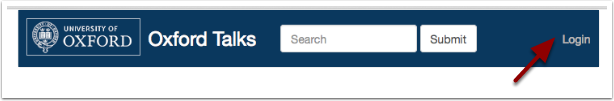
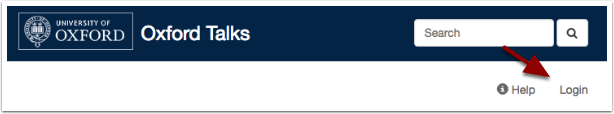
Adjusting login images and instructions, also documenting bug with IE

diff --git a/docs/source/user/general/log-in.rst b/docs/source/user/general/log-in.rst
@@ -1,3 +1,6 @@
+
+
+
 Logging in and out
 ==================
 
@@ -8,7 +11,7 @@ Log in
 
 .. image:: images/log-in/log-in.png
    :alt: Log in
-   :height: 101px
+   :height: 114px
    :width: 614px
    :align: center
 
@@ -18,21 +21,24 @@ Log in
 * Once you have signed in, clicking the **Continue to** button will take you back to Oxford Talks
 
 .. image:: images/log-in/d1a11eac-3994-43ab-a04e-def878f18588.png
-   :alt:
+   :alt: 
    :height: 389px
    :width: 614px
    :align: center
+
+
+.. Note:: Just occasionally there are problems logging in with Internet Explorer. If you encounter this, close down your browser to log yourself out of everything, then open your browser again and try logging in to Oxford Talks.
 
 Log out
 -------
 
 .. image:: images/log-in/log-out.png
    :alt: Log out
-   :height: 81px
-   :width: 614px
+   :height: 167px
+   :width: 370px
    :align: center
 
 
-The **Logout** button is also located at the far right of the toolbar at the top of the screen.
+The **Logout** link is also located in the drop down list underneath your name at the top of the screen.
 
 .. Note::  Clicking this will only log you out of the Oxford Talks website. You will still be logged in to any other web pages you have logged in to with your Single Sign On username and password using the WebAuth page. If you really want to sign out of everything, then close down your browser.
